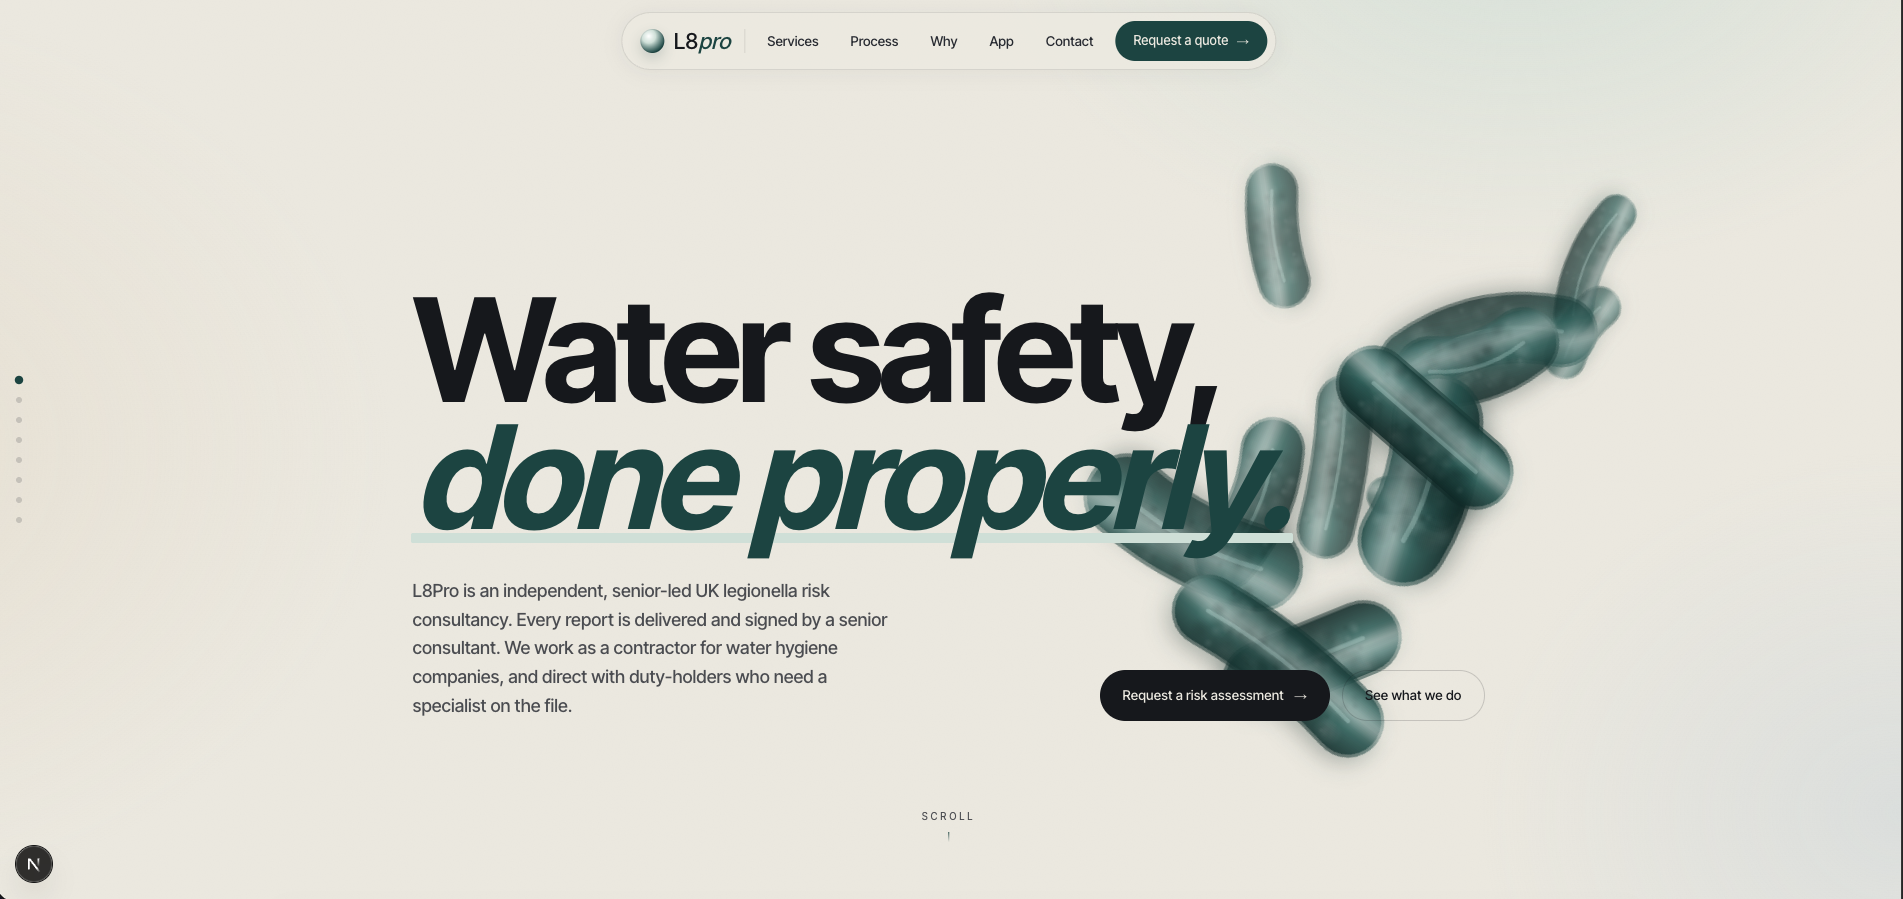
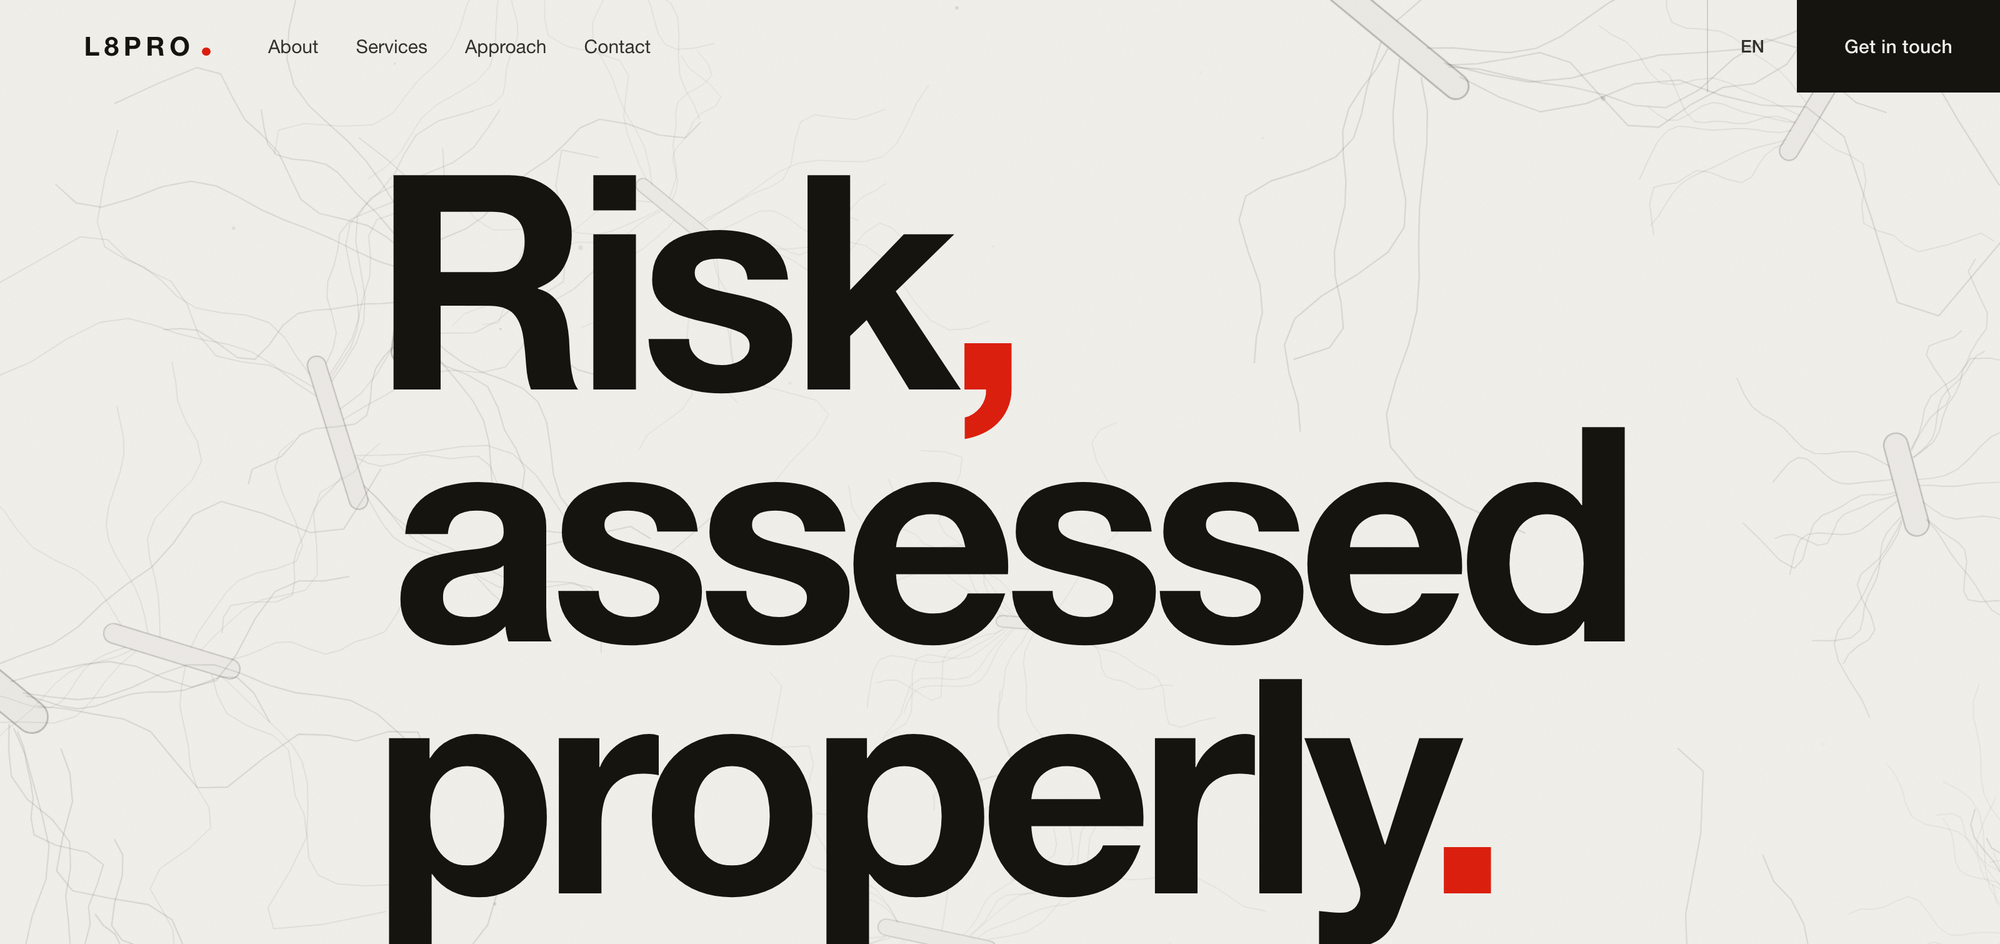
Portfolio: refresh L8 Pro thumbnail to match live redesign
Replace the stale "Water safety done properly" hero shot with the current
"Risk, assessed properly." design captured from l8pro.co.uk. Bump the image
URL to ?v=2 so Vercel's immutable /portfolio/ cache serves the new file.

diff --git a/index.html b/index.html
@@ -692,7 +692,7 @@ html.reveal-failsafe .reveal{ translate:none !important; transition:none !import
           <div class="meta"><div><div class="nm">Okolitza Studio</div><div class="cat">Recording Studio</div></div><span class="go" aria-hidden="true">→</span></div>
         </a>
         <a class="stack-card" href="https://www.l8pro.co.uk/" target="_blank" rel="noopener" data-cursor-hover aria-label="L8 Pro — Consultancy website (opens in new tab)">
-          <div class="inner"><img src="/portfolio/l8.webp" width="1000" height="472" loading="lazy" decoding="async" alt="L8 Pro — Consultancy website built by Studio 103"></div>
+          <div class="inner"><img src="/portfolio/l8.webp?v=2" width="1000" height="472" loading="lazy" decoding="async" alt="L8 Pro — Consultancy website built by Studio 103"></div>
           <span class="num">03 / 04</span>
           <span class="days">5d</span>
           <div class="meta"><div><div class="nm">L8 Pro</div><div class="cat">Consultancy</div></div><span class="go" aria-hidden="true">→</span></div>